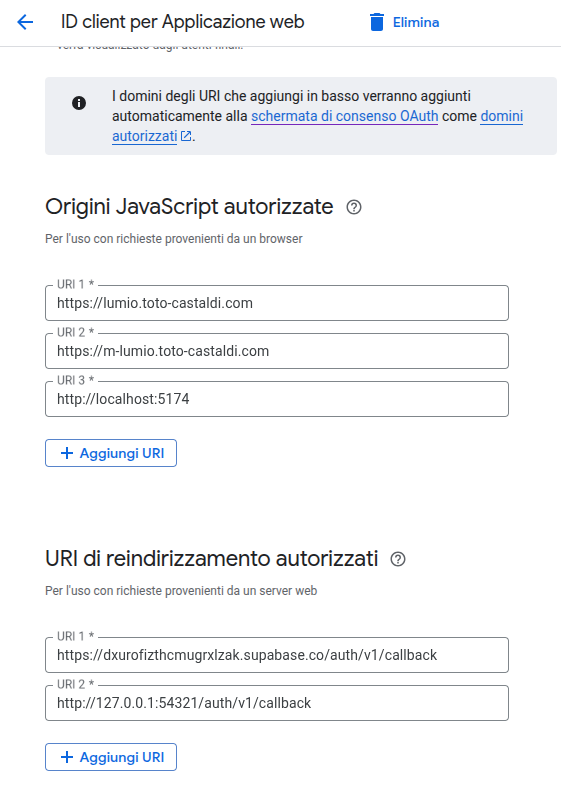
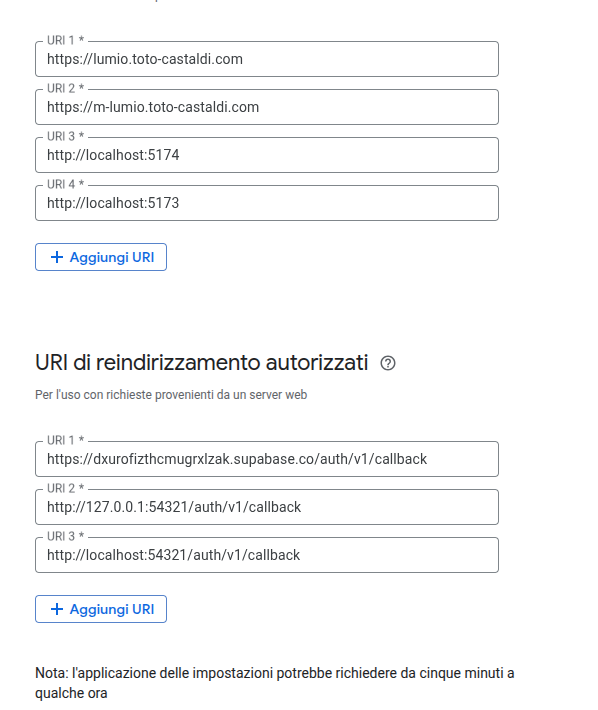
docs: vscode

diff --git a/README.md b/README.md
@@ -30,6 +30,7 @@ cp apps/web/.env.example apps/web/.env.local
 cp apps/mobile/.env.example apps/mobile/.env.local
 
 # Build shared packages (required before running apps)
+pnpm typecheck
 pnpm build:packages
 
 # Start Supabase local
